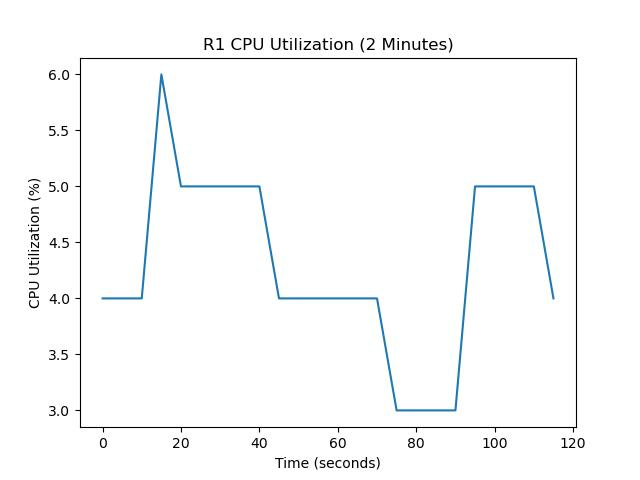
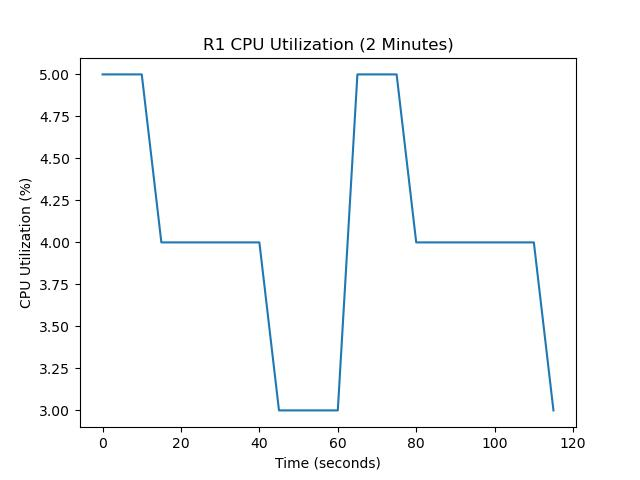
update files

diff --git a/text files/NMsnmp.py b/text files/NMsnmp.py
@@ -1,0 +1,158 @@
+import json
+import time
+import ipaddress
+import matplotlib.pyplot as plt
+from pysnmp.hlapi import *
+
+COMMUNITY = "public"
+
+ROUTERS = {
+    "R1": "10.10.0.1",
+    "R2": "10.12.0.12",
+    "R3": "10.12.0.13",
+    "R4": "10.12.0.21",
+    "R5": "10.12.0.1",
+}
+
+# OIDs
+IF_DESCR = '1.3.6.1.2.1.2.2.1.2'
+IF_STATUS = '1.3.6.1.2.1.2.2.1.8'
+IPV4_ADDR = '1.3.6.1.2.1.4.20.1.1'
+IPV4_IFINDEX = '1.3.6.1.2.1.4.20.1.2'
+IP_IFINDEX = '1.3.6.1.2.1.4.34.1.3'
+CPU_OID = '1.3.6.1.4.1.9.2.1.57.0'
+
+
+def snmp_walk(ip, oid):
+    results = {}
+    for (errorIndication, errorStatus, errorIndex, varBinds) in nextCmd(
+            SnmpEngine(),
+            CommunityData(COMMUNITY, mpModel=1),
+            UdpTransportTarget((ip, 161)),
+            ContextData(),
+            ObjectType(ObjectIdentity(oid)),
+            lexicographicMode=False):
+
+        if errorIndication or errorStatus:
+            break
+
+        for varBind in varBinds:
+            results[str(varBind[0])] = varBind[1].prettyPrint()
+
+    return results
+
+
+def snmp_get(ip, oid):
+    iterator = getCmd(
+        SnmpEngine(),
+        CommunityData(COMMUNITY, mpModel=1),
+        UdpTransportTarget((ip, 161)),
+        ContextData(),
+        ObjectType(ObjectIdentity(oid))
+    )
+
+    errorIndication, errorStatus, errorIndex, varBinds = next(iterator)
+
+    if errorIndication or errorStatus:
+        return None
+
+    return int(varBinds[0][1])
+
+
+def collect_data():
+    network_data = {}
+
+    for name, ip in ROUTERS.items():
+
+        interfaces = snmp_walk(ip, IF_DESCR)
+        statuses = snmp_walk(ip, IF_STATUS)
+        ipv4_addrs = snmp_walk(ip, IPV4_ADDR)
+        ipv4_index = snmp_walk(ip, IPV4_IFINDEX)
+        ip_table = snmp_walk(ip, IP_IFINDEX)
+
+        router_info = {
+            "addresses": {},
+            "interface_status": {}
+        }
+
+        # build interface mapping
+        index_to_name = {}
+        for oid, iface in interfaces.items():
+            idx = oid.split('.')[-1]
+            index_to_name[idx] = iface
+            router_info["addresses"][iface] = {"v4": [], "v6": []}
+
+        # interface status
+        for oid, status in statuses.items():
+            idx = oid.split('.')[-1]
+            if idx in index_to_name:
+                router_info["interface_status"][index_to_name[idx]] = (
+                    "up" if status == "1" else "down"
+                )
+
+        # map ipv4
+        for oid, addr in ipv4_addrs.items():
+            idx_oid = oid.replace(IPV4_ADDR, IPV4_IFINDEX)
+            if idx_oid in ipv4_index:
+                iface_idx = ipv4_index[idx_oid]
+                if iface_idx in index_to_name:
+                    router_info["addresses"][index_to_name[iface_idx]]["v4"].append(addr)
+
+        # map ipv6 (extracted from OID index)
+        for oid, iface_idx in ip_table.items():
+
+            parts = oid.split('.')
+            base_len = len(IP_IFINDEX.split('.'))
+
+            addr_type = int(parts[base_len])
+            addr_len = int(parts[base_len + 1])
+
+            addr_bytes = parts[base_len + 2: base_len + 2 + addr_len]
+            addr_bytes = [int(b) for b in addr_bytes]
+
+            if addr_type == 2:  # ipv6
+                ipv6_addr = str(ipaddress.IPv6Address(bytes(addr_bytes)))
+
+                if iface_idx in index_to_name:
+                    router_info["addresses"][index_to_name[iface_idx]]["v6"].append(ipv6_addr)
+
+        network_data[name] = router_info
+
+    return network_data
+
+
+def poll_cpu():
+    timestamps = []
+    cpu_values = []
+
+    for i in range(24):  # 2 minutes
+        cpu = snmp_get(ROUTERS["R1"], CPU_OID)
+        if cpu is not None:
+            timestamps.append(i * 5)
+            cpu_values.append(cpu)
+        time.sleep(5)
+
+    return timestamps, cpu_values
+
+
+def plot_cpu(timestamps, cpu_values):
+    plt.figure()
+    plt.plot(timestamps, cpu_values)
+    plt.xlabel("Time (seconds)")
+    plt.ylabel("CPU Utilization (%)")
+    plt.title("R1 CPU Utilization (2 Minutes)")
+    plt.savefig("R1_CPU.jpg")
+
+
+def main():
+    data = collect_data()
+
+    with open("snmp_output.txt", "w") as f:
+        json.dump(data, f, indent=4)
+
+    timestamps, cpu_values = poll_cpu()
+    plot_cpu(timestamps, cpu_values)
+
+
+if __name__ == "__main__":
+    main()

diff --git a/text files/NMgithub.py b/text files/NMgithub.py
@@ -1,0 +1,33 @@
+import os
+from git import Repo
+
+
+def main():
+
+    REPO_NAME = "NM_lab"
+    USERNAME = "awilbern52"
+    TOKEN = os.getenv("GITHUB_TOKEN")
+
+    if not TOKEN:
+        raise ValueError("GITHUB_TOKEN environment variable not set")
+
+    REMOTE_URL = f"https://{USERNAME}:{TOKEN}@github.com/{USERNAME}/{REPO_NAME}.git"
+
+    repo = Repo.init(os.getcwd())
+
+    if "origin" not in [r.name for r in repo.remotes]:
+        repo.create_remote("origin", REMOTE_URL)
+    else:
+        repo.remotes.origin.set_url(REMOTE_URL)
+
+    repo.git.add(A=True)
+
+    if repo.is_dirty(untracked_files=True):
+        repo.index.commit("update files")
+
+    repo.git.branch("-M", "main")
+    repo.git.push("-u", "origin", "main", "--force")
+
+
+if __name__ == "__main__":
+    main()
